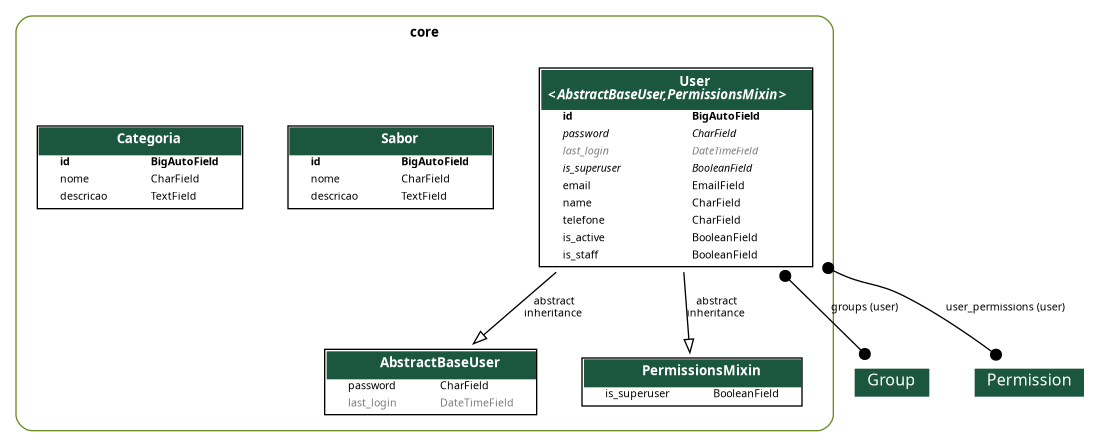
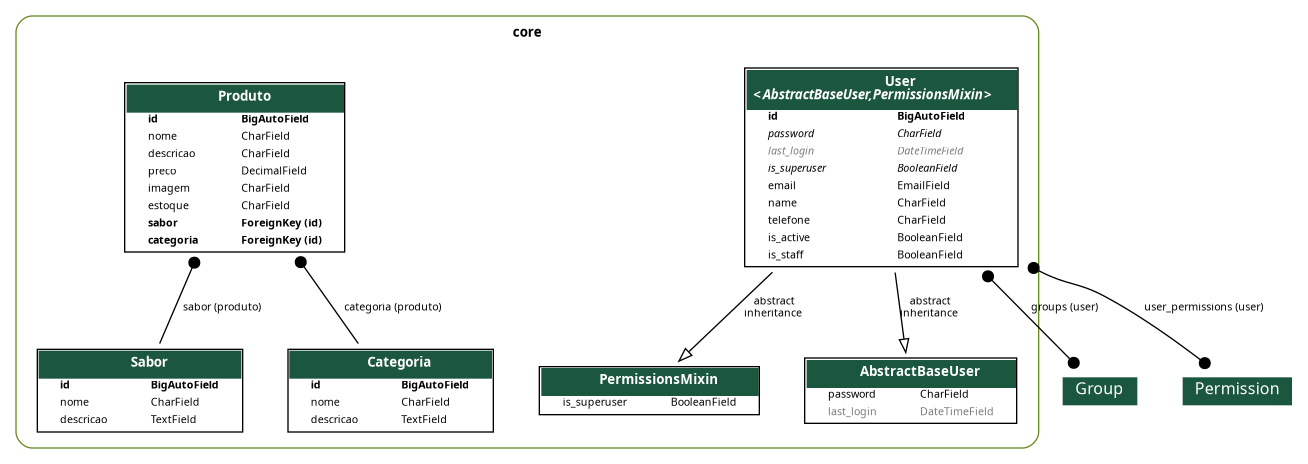
feat: criação da model , serializer view produto

diff --git a/core/migrations/0011_produto.py b/core/migrations/0011_produto.py
@@ -1,0 +1,31 @@
+# Generated by Django 5.2.12 on 2026-04-13 16:24
+
+import django.db.models.deletion
+from django.db import migrations, models
+
+
+class Migration(migrations.Migration):
+
+    dependencies = [
+        ('core', '0010_categoria'),
+    ]
+
+    operations = [
+        migrations.CreateModel(
+            name='Produto',
+            fields=[
+                ('id', models.BigAutoField(auto_created=True, primary_key=True, serialize=False, verbose_name='ID')),
+                ('nome', models.CharField(max_length=80)),
+                ('descricao', models.CharField(max_length=255)),
+                ('preco', models.DecimalField(decimal_places=2, max_digits=10)),
+                ('imagem', models.CharField(max_length=250)),
+                ('estoque', models.CharField(max_length=100)),
+                ('categoria', models.ForeignKey(on_delete=django.db.models.deletion.CASCADE, to='core.categoria')),
+                ('sabor', models.ForeignKey(on_delete=django.db.models.deletion.CASCADE, to='core.sabor')),
+            ],
+            options={
+                'verbose_name': 'Produto',
+                'verbose_name_plural': 'Produtos',
+            },
+        ),
+    ]

diff --git a/core/models/produto.py b/core/models/produto.py
@@ -1,0 +1,20 @@
+from django.db import models
+
+
+class Produto(models.Model):
+    nome = models.CharField(max_length=80)
+    descricao = models.CharField(max_length=255)
+    preco = models.DecimalField(max_digits=10, decimal_places=2)
+    imagem = models.ImageField(upload_to='produtos/')
+    estoque = models.CharField(max_length=100)
+
+    sabor = models.ForeignKey('Sabor', on_delete=models.PROTECT)
+    categoria = models.ForeignKey('Categoria', on_delete=models.PROTECT)
+
+    def __str__(self):
+        nome = self.nome.upper()
+        return f'({self.id}) {nome}'
+
+    class Meta:
+        verbose_name = 'Produto'
+        verbose_name_plural = 'Produtos'

diff --git a/core/serializers/produto.py b/core/serializers/produto.py
@@ -1,0 +1,9 @@
+from rest_framework.serializers import ModelSerializer
+
+from core.models import Produto
+
+
+class ProdutoSerializer(ModelSerializer):
+    class Meta:
+        model = Produto
+        fields = '__all__'

diff --git a/core/views/produto.py b/core/views/produto.py
@@ -1,0 +1,9 @@
+from rest_framework.viewsets import ModelViewSet
+
+from core.models import Produto
+from core.serializers import ProdutoSerializer
+
+
+class ProdutoViewSet(ModelViewSet):
+    queryset = Produto.objects.all()
+    serializer_class = ProdutoSerializer

diff --git a/app/urls.py b/app/urls.py
@@ -12,13 +12,14 @@ from rest_framework_simplejwt.views import (
     TokenVerifyView,
 )
 
-from core.views import CategoriaViewSet, SaborViewSet, UserRegistrationView, UserViewSet
+from core.views import CategoriaViewSet, ProdutoViewSet, SaborViewSet, UserRegistrationView, UserViewSet
 
 router = DefaultRouter()
 
 router.register(r'usuarios', UserViewSet, basename='usuarios')
 router.register(r'sabores', SaborViewSet, basename='sabores')
 router.register(r'categorias', CategoriaViewSet, basename='categorias')
+router.register(r'produtos', ProdutoViewSet, basename='produtos')
 
 urlpatterns = [
     path('admin/', admin.site.urls),

diff --git a/core/admin.py b/core/admin.py
@@ -55,3 +55,4 @@ class UserAdmin(BaseUserAdmin):
 admin.site.register(models.User, UserAdmin)
 admin.site.register(models.Sabor)
 admin.site.register(models.Categoria)
+admin.site.register(models.Produto)

diff --git a/core/models/__init__.py b/core/models/__init__.py
@@ -1,3 +1,4 @@
 from .user import User
 from .sabor import Sabor
 from .categoria import Categoria
+from .produto import Produto

diff --git a/core/serializers/__init__.py b/core/serializers/__init__.py
@@ -1,3 +1,4 @@
 from .user import UserRegistrationSerializer, UserSerializer
 from .sabor import SaborSerializer
 from .categoria import CategoriaSerializer
+from .produto import ProdutoSerializer

diff --git a/core/views/__init__.py b/core/views/__init__.py
@@ -1,3 +1,4 @@
 from .user import UserRegistrationView, UserViewSet
 from .sabor import SaborViewSet
 from .categoria import CategoriaViewSet
+from .produto import ProdutoViewSet